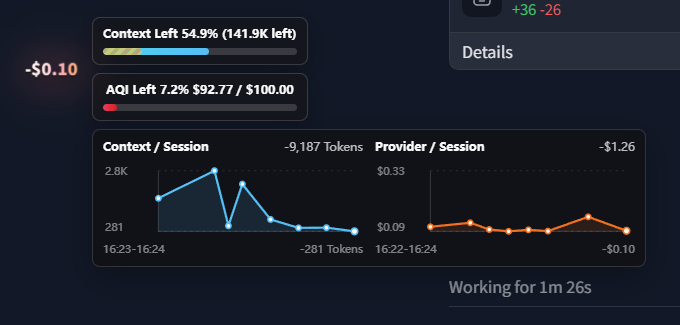
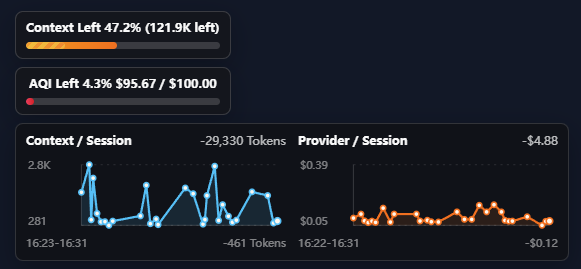
Refine README feature overview

diff --git a/README.md b/README.md
@@ -8,7 +8,7 @@
 
 ![Codex Context Used Meter 效果展示](assets/codex-context-meter-demo.gif)
 
-![悬浮状态栏显示 Context 与 Provider 余量](assets/floating-status-bar.png)
+![Inline 状态栏显示 Context 与 Provider 余量](assets/floating-status-bar.png)
 
 ![右键菜单切换 inline / floating 与横向 / 纵向布局](assets/floating-layout-menu.png)
 
@@ -16,16 +16,15 @@
 
 ## 功能
 
-- 显示 `Context Left xx.x%`，默认表达「还剩多少上下文」。
-- 可通过 `ui-config.json` 把 Context 显示切换为 `Context Used xx.x%`。
-- Context 条左侧的黄 / 橙斜线表示接近压缩点的区域。
-- 可选显示 Provider 余额框，例如订阅额度、已用金额、剩余额度；未配置 Provider 时只显示 Context，其它功能不受影响。
-- 新消耗 token 或 Provider 余额变化时，从整个组件最左侧中间外侧播放统一的扣血动画。
-- token 扣血和 Provider 扣血共用队列，不会同时重叠显示。
-- 鼠标悬停在 Context / Provider 面板上时，系统悬浮提示显示当前真实数值。
-- 鼠标悬停在组件附近时显示当前会话近一小时消耗折线图，Context / Provider 独立统计；图表点值是每次单独消耗，标题栏右侧显示当前会话累计值。
-- 右键组件可在 inline / floating 模式之间切换。
-- floating 模式支持左右排列和上下排列，并支持拖动位置与滚轮缩放；floating 右键菜单会提示可用鼠标滚轮缩放。
+- **Context 余量**：默认显示 `Context Left xx.x%`，表示当前会话还剩多少上下文。
+- **Context 显示模式**：可通过 `ui-config.json` 切换为 `Context Used xx.x%`。
+- **压缩预警区**：Context 条左侧的黄 / 橙斜线标记接近压缩点的区域。
+- **Provider 余额框**：可选显示订阅额度、已用金额、剩余额度和状态；未配置 Provider 时仅显示 Context。
+- **消耗动效**：新消耗 token 或 Provider 余额变化时显示统一的扣血动画。
+- **悬浮提示**：鼠标悬停在 Context / Provider 面板上时显示当前真实数值。
+- **会话历史图**：鼠标悬停在组件附近时显示当前会话近一小时消耗折线图，Context / Provider 独立统计；图表点值是每次单独消耗，标题栏右侧显示当前会话累计值。
+- **显示位置**：右键组件可在 inline / floating 模式之间切换。
+- **Floating 布局**：floating 模式支持左右排列、上下排列、拖动位置和滚轮缩放。
 
 ## 安装脚本
 
@@ -257,7 +256,7 @@ The user script only reads runtime signals already exposed in the Codex renderer
 
 ![Codex Context Used Meter demo](assets/codex-context-meter-demo.gif)
 
-![Floating status bar showing Context and Provider balance](assets/floating-status-bar.png)
+![Inline status bar showing Context and Provider balance](assets/floating-status-bar.png)
 
 ![Right-click menu for inline / floating and horizontal / vertical layout](assets/floating-layout-menu.png)
 
@@ -265,16 +264,15 @@ The user script only reads runtime signals already exposed in the Codex renderer
 
 ## Features
 
-- Shows `Context Left xx.x%` by default.
-- Can show `Context Used xx.x%` instead via `ui-config.json`.
-- Shows a striped warning zone on the left side of the Context bar when the conversation is close to compaction.
-- Optionally shows a Provider balance card with used, total, remaining, and status data; when Provider is not configured, only Context is shown and the rest of the meter still works.
-- Plays spend pop text from the whole component's left-middle outside edge.
-- Context token spend and Provider spend share one queue, so the pop text does not overlap.
-- Shows live current values in the native tooltip when hovering over the Context / Provider panels.
-- Shows current-session one-hour spend line charts while hovering near the component, with separate Context and Provider series; chart points are individual spend events, and the header keeps the current-session cumulative total.
-- Right-click menu switches between inline and floating modes.
-- Floating mode supports horizontal / vertical layout, drag position, and wheel zoom; the floating right-click menu includes a mouse-wheel resize hint.
+- **Context remaining**: shows `Context Left xx.x%` by default to indicate how much context remains in the current session.
+- **Context display mode**: can switch to `Context Used xx.x%` through `ui-config.json`.
+- **Compaction warning zone**: yellow / orange stripes on the left side of the Context bar mark the area near compaction.
+- **Provider balance card**: optionally shows subscription quota, used amount, remaining amount, and status; when Provider is not configured, only Context is shown.
+- **Spend effect**: shows a unified spend animation when tokens are consumed or Provider balance changes.
+- **Hover tooltip**: shows live current values when hovering over the Context / Provider panels.
+- **Session history chart**: shows current-session one-hour spend charts while hovering near the component, with separate Context and Provider series; chart points are individual spend events, and the header shows the current-session cumulative total.
+- **Display placement**: right-click menu switches between inline and floating modes.
+- **Floating layout**: floating mode supports horizontal layout, vertical layout, drag position, and wheel zoom.
 
 ## Install Script
 